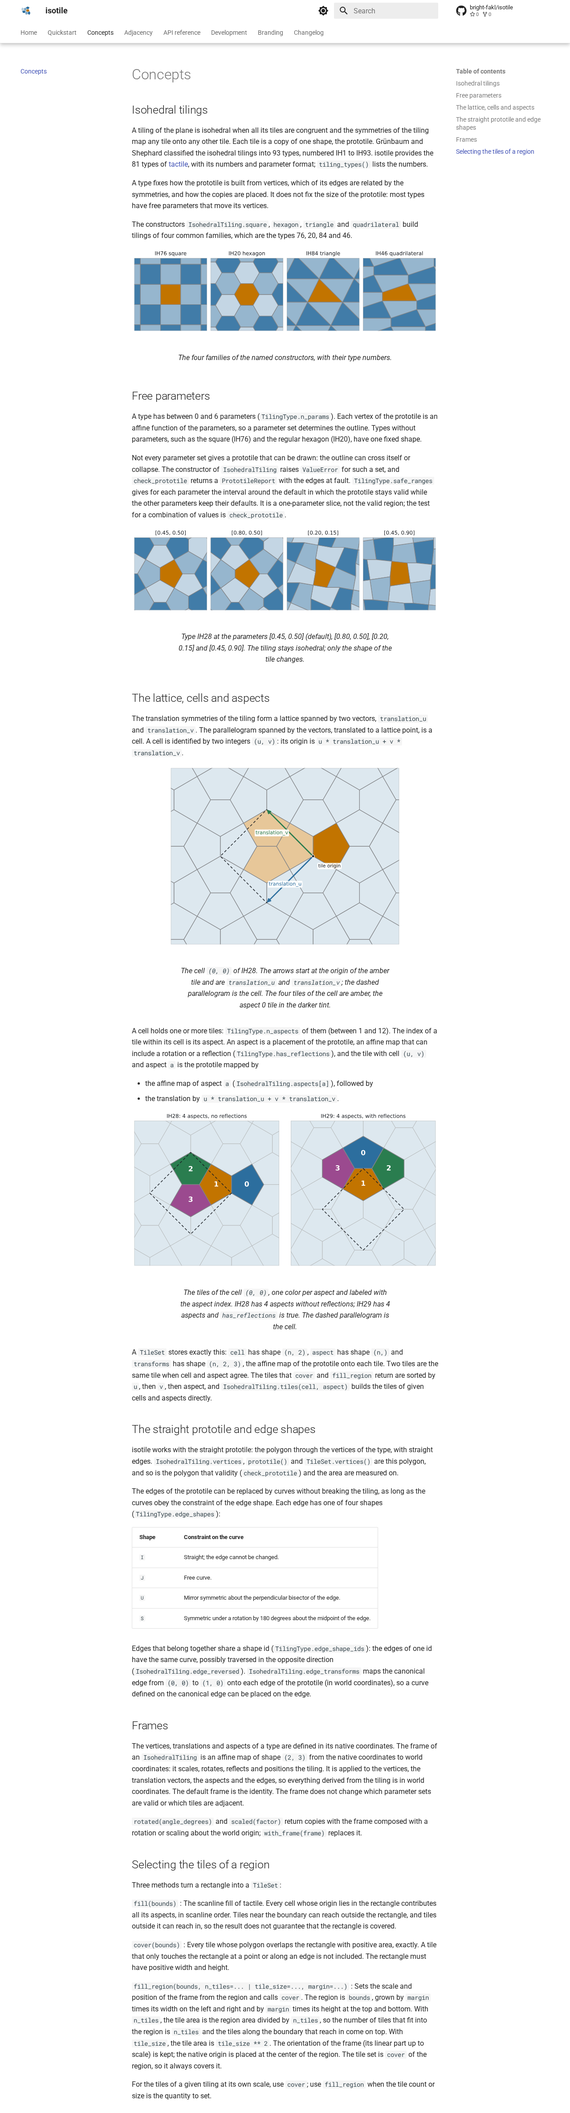
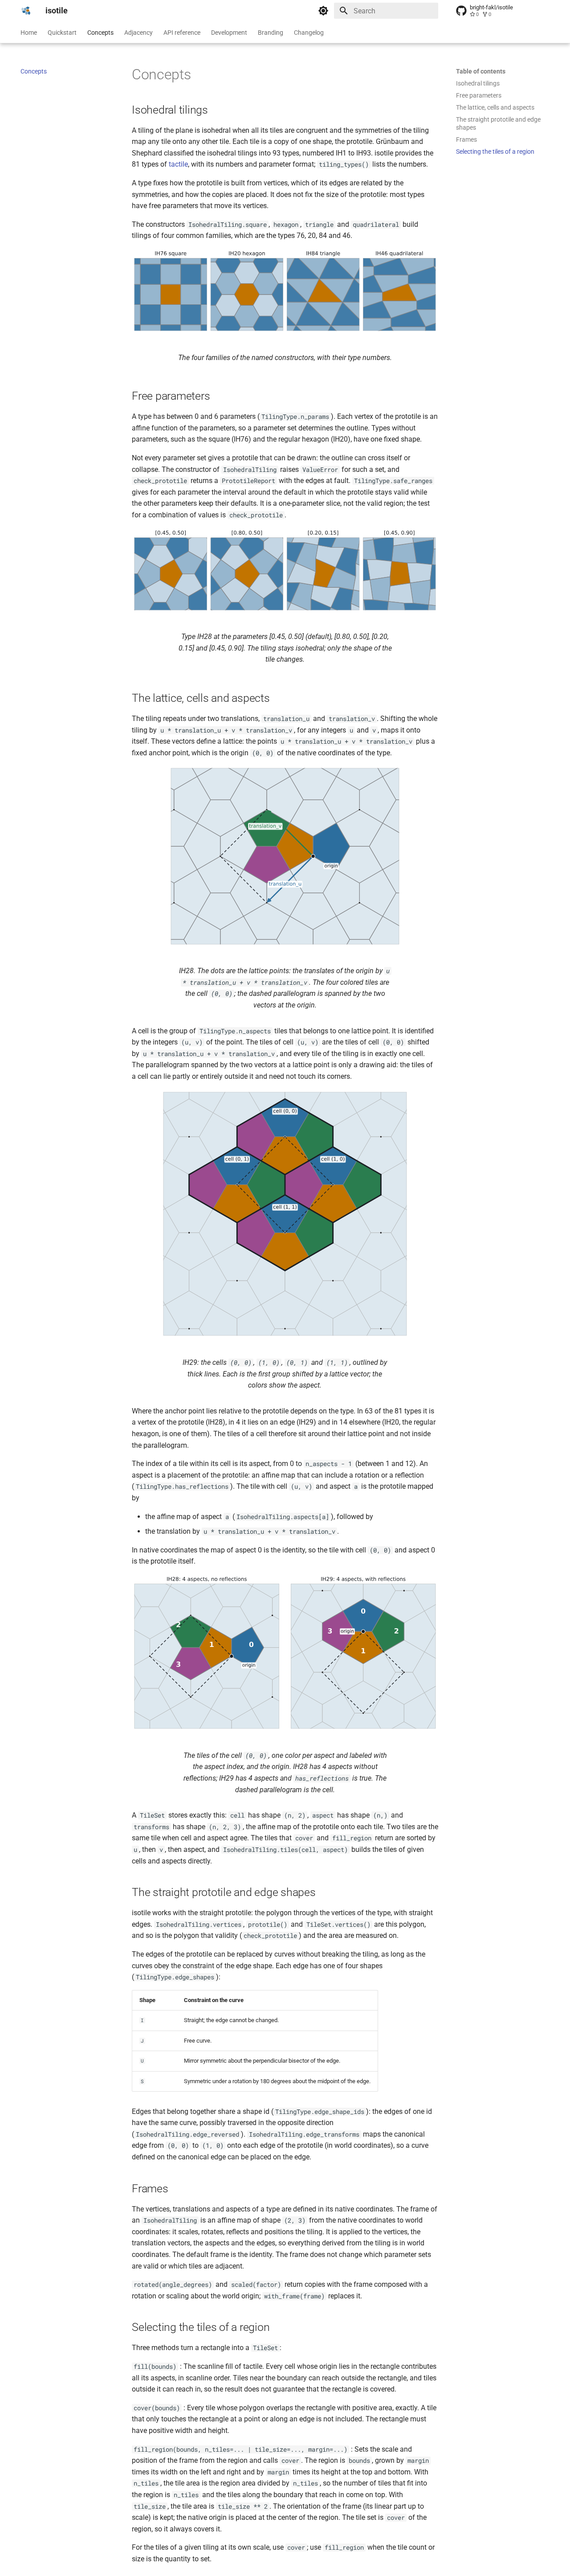
isotile-doc-figures: revised lattice, cells and aspects figures

diff --git a/isotile-doc-figures/index.html b/isotile-doc-figures/index.html
@@ -85,30 +85,31 @@
 <dt>Base</dt><dd>main</dd>
 <dt>Created</dt><dd>2026-10-27 21:30</dd>
 <dt>Before</dt><dd>bright-fakl/isotile docs-skeleton at b55a11d (no figures)</dd>
-<dt>After</dt><dd>bright-fakl/isotile docs-skeleton at b3dca45 (figures, not merged)</dd>
+<dt>After</dt><dd>bright-fakl/isotile docs-skeleton at 9ffe3af (figures, not merged)</dd>
 <dt>Inputs</dt><dd>isotile tiles (cover, fill_region, tiles, neighbors, adjacency) and the logo palette; matplotlib 3.10.9 (docs group); mkdocs 1.6.1 with mkdocs-material 9.7.7; headless Chromium (dark scheme shown by setting data-md-color-scheme=&quot;slate&quot; and data-md-color-primary=&quot;black&quot; on a copy of the build)</dd>
 </dl>
-<p class="desc">Thirteen light/dark SVG figures for the home, quickstart, concepts and adjacency pages of the isotile docs, generated by scripts/make_doc_figures.py from isotile tiles, polygons and adjacency, on the docs-skeleton branch of PR 2. CI is green.</p>
+<p class="desc">Fourteen light/dark SVG figures for the home, quickstart, concepts and adjacency pages of the isotile docs, generated by scripts/make_doc_figures.py from isotile tiles, polygons and adjacency, on the docs-skeleton branch of PR 2. CI is green.</p>
 <h2>What changed</h2>
+<ul><li>Revision (9ffe3af): the Concepts section &quot;The lattice, cells and aspects&quot; is rewritten in the order translations, cell (a group of <code>n_aspects</code> tiles; the parallelogram is a drawing aid, tiles may lie outside it), anchor point (the native origin: a vertex in 63 of the 81 types, on an edge in 4, elsewhere in 14), aspect and tile formula. <code>concepts-lattice</code> and <code>concepts-aspects</code> now show the lattice points as dots, the origin, the colored tiles of cell (0, 0) and the dashed parallelogram between dots; new <code>concepts-cells</code> (IH29) shows four neighboring cells, outlined, as translates of one group.</li></ul>
 <ul><li><code>scripts/make_doc_figures.py</code> writes 26 SVG files (13 figures, <code>-light</code> and <code>-dark</code>) to <code>docs/assets/figures/</code>. It uses plain matplotlib (added to the <code>docs</code> dependency group only, <code>uv.lock</code> updated) and a script-local helper built on <code>cover</code>, tile polygons, <code>neighbors</code> and the type adjacency table; the library gains no plotting code.</li><li>Dark mode: two variants per figure on a transparent background with the logo colors (light <code>#2c6e9e</code>, <code>#c27400</code>; dark <code>#85b7e0</code>, <code>#facc38</code>, plus a green and a plum for aspects and vertex-only neighbors), shown with Material&#x27;s <code>#only-light</code> and <code>#only-dark</code> URL fragments.</li><li>Output is deterministic: text as paths, fixed <code>svg.hashsalt</code>, date, creator, format and type metadata removed, path data rounded to 0.1 pt, collection styles moved to the group. Two runs in separate processes give identical files; <code>--check</code> compares with the stored files.</li><li>Quickstart and adjacency figures run the Python blocks of the page up to the block that creates the object and draw that object, so they show what the code on the page produces.</li><li>Pages: figures with alt text and a caption (<code>md_in_html</code>, <code>&lt;figure&gt;</code> and <code>&lt;figcaption&gt;</code>); short lead-in sentence in Concepts for the named families; a &quot;Regenerate the figures&quot; section in Development; CHANGELOG line.</li><li><code>tests/test_docs_examples.py</code>: every image of a page resolves and has alt text, and every figure file is shown on some page.</li></ul>
 <table>
 <tr><th>Page</th><th>Figures</th></tr>
 <tr><td>index</td><td>hero</td></tr>
 <tr><td>quickstart</td><td>quickstart-create, concepts-families (also in concepts), quickstart-fill, quickstart-select, quickstart-adjacency, quickstart-frames</td></tr>
-<tr><td>concepts</td><td>concepts-families, concepts-parameters, concepts-lattice, concepts-aspects</td></tr>
+<tr><td>concepts</td><td>concepts-families, concepts-parameters, concepts-lattice, concepts-cells, concepts-aspects</td></tr>
 <tr><td>adjacency</td><td>adjacency-neighbors, adjacency-offsets, adjacency-matrix</td></tr>
 </table>
 <p>Not drawn: curved edge shapes (the API only exposes the shape letters I, J, U, S).</p>
 <h2>Checks</h2>
 <table>
 <tr><th>Check</th><th>Result</th></tr>
-<tr><td>Asset size</td><td><code>docs/assets/figures/</code> 0.54 MB (91 KB gzipped, 26 files, largest 30 KB); logo assets 81 KB</td></tr>
+<tr><td>Asset size</td><td><code>docs/assets/figures/</code> 0.58 MB (28 files); logo assets 81 KB</td></tr>
 <tr><td><code>mkdocs build --strict</code></td><td>no warnings</td></tr>
 <tr><td>Screenshots, light and dark</td><td>looked at all four changed pages; no overlapping or clipped labels; light and dark variants swap with the scheme</td></tr>
 <tr><td>pytest</td><td>2,844 passed, 78 skipped</td></tr>
 <tr><td>ruff, ruff format, mypy --strict, <code>uv lock --check</code>, pre-commit</td><td>clean</td></tr>
 <tr><td><code>make_doc_figures.py --check</code></td><td>up to date; two consecutive runs identical</td></tr>
-<tr><td>CI at b3dca45</td><td>all jobs green (lint, typecheck, tests on Linux 3.10 to 3.13, macOS, Windows, tactile-equivalence, data-check, minimum-versions, wheel-smoke-test, check-docs, docs build); deploy skipped on the PR by design</td></tr>
+<tr><td>CI at 9ffe3af</td><td>all jobs green (lint, typecheck, tests on Linux 3.10 to 3.13, macOS, Windows, tactile-equivalence, data-check, minimum-versions, wheel-smoke-test, check-docs, docs build); deploy skipped on the PR by design</td></tr>
 </table>
 <h2>Could not be verified</h2>
 <ul><li>The dark scheme was shown by editing attributes on a copy of the build, not by the theme toggle.</li><li>Text is drawn as paths, so it does not follow the docs font; the figure text is DejaVu Sans.</li></ul>
@@ -124,8 +125,8 @@
 <img src="concepts-dark.png" alt="Concepts, dark scheme.">
 <p class="caption">Concepts, dark scheme.</p>
 </div><div class="figure">
-<img src="concepts-light.png" alt="Concepts, light scheme: named families, free parameters, lattice and translation vectors, aspects of a cell.">
-<p class="caption">Concepts, light scheme: named families, free parameters, lattice and translation vectors, aspects of a cell.</p>
+<img src="concepts-light.png" alt="Concepts, light scheme: named families, free parameters, lattice points and translation vectors (IH28), cells as translates of one group (IH29), aspects and the origin (IH28, IH29).">
+<p class="caption">Concepts, light scheme: named families, free parameters, lattice points and translation vectors (IH28), cells as translates of one group (IH29), aspects and the origin (IH28, IH29).</p>
 </div><div class="figure">
 <img src="index-dark.png" alt="Home page, dark scheme.">
 <p class="caption">Home page, dark scheme.</p>

diff --git a/index.html b/index.html
@@ -79,7 +79,7 @@
 <table id="toc">
 <thead><tr><th data-col="0" title="Sort by Status">Status</th><th data-col="1" title="Sort by Kind">Kind</th><th data-col="2" title="Sort by Topic">Topic</th><th data-col="3" title="Sort by PR">PR</th><th data-col="4" title="Sort by Title">Title</th><th data-col="5" title="Sort by Description">Description</th><th data-col="6" title="Sort by Created">Created</th><th data-col="7" title="Sort by Closed">Closed</th><th data-col="8" title="Sort by Figures">Figures</th></tr></thead>
 <tbody>
-<tr class="todo" data-ord="0" data-kind="pr" data-topics=" symbol " data-status="unknown" data-class="todo" data-active="2026-10-27 21:30"><td><span class="status todo">unknown</span></td><td>pr</td><td>symbol</td><td><a href="https://github.com/bright-fakl/isotile/pull/2">#2</a></td><td><a href="isotile-doc-figures/index.html">&quot;isotile documentation figures&quot;</a></td><td>Thirteen light/dark SVG figures for the home, quickstart, concepts and adjacency pages of the isotile docs, generated by scripts/make_doc_figures.py from isotile tiles, polygons and adjacency, on the docs-skeleton branch of PR 2. CI is green.</td><td>2026-10-27 21:30</td><td></td><td>8</td></tr>
+<tr class="todo" data-ord="0" data-kind="pr" data-topics=" symbol " data-status="unknown" data-class="todo" data-active="2026-10-27 21:30"><td><span class="status todo">unknown</span></td><td>pr</td><td>symbol</td><td><a href="https://github.com/bright-fakl/isotile/pull/2">#2</a></td><td><a href="isotile-doc-figures/index.html">&quot;isotile documentation figures&quot;</a></td><td>Fourteen light/dark SVG figures for the home, quickstart, concepts and adjacency pages of the isotile docs, generated by scripts/make_doc_figures.py from isotile tiles, polygons and adjacency, on the docs-skeleton branch of PR 2. CI is green.</td><td>2026-10-27 21:30</td><td></td><td>8</td></tr>
 <tr class="todo" data-ord="1" data-kind="pr" data-topics=" symbol " data-status="unknown" data-class="todo" data-active="2026-10-27 20:00"><td><span class="status todo">unknown</span></td><td>pr</td><td>symbol</td><td><a href="https://github.com/bright-fakl/isotile/pull/2">#2</a></td><td><a href="isotile-logo-assets/index.html">&quot;isotile logo assets and branding page&quot;</a></td><td>Final logo asset set for isotile (the pentagon patch a_patch with the pinwheel favicon a_patch_fav) generated by scripts/make_logo_assets.py, wired into the docs (header logo per color scheme, favicon, Branding page) and the README header on the docs-skeleton branch of PR 2. One logo shows in the header in each scheme; CI is green.</td><td>2026-10-27 20:00</td><td></td><td>8</td></tr>
 <tr class="todo" data-ord="2" data-kind="pr" data-topics=" symbol " data-status="unknown" data-class="todo" data-active="2026-10-27 18:00"><td><span class="status todo">unknown</span></td><td>pr</td><td>symbol</td><td><a href="https://github.com/bright-fakl/isotile/pull/2">#2</a></td><td><a href="isotile-docs-skeleton-pr/index.html">&quot;isotile docs skeleton and GitHub Pages deployment&quot;</a></td><td>Adds the mkdocs-material documentation site (home, quickstart, concepts, adjacency, API reference from docstrings, development, changelog), tests that run the page code and check that the API reference lists every public name, a strict docs build job in CI and a Pages deployment workflow for main.</td><td>2026-10-27 18:00</td><td></td><td>10</td></tr>
 <tr class="todo" data-ord="3" data-kind="exploration" data-topics=" symbol " data-status="open" data-class="todo" data-active="2026-10-27 15:00"><td><span class="status todo">open</span></td><td>exploration</td><td>symbol</td><td>-</td><td><a href="exploration-isotile-logo/index.html">Logo concepts for isotile</a></td><td>Five mark concepts for isotile (a pentagon tiling patch, interlocking curved tiles, a lattice cell, an `it` monogram of hexagon tiles, one tile with its neighbor links), drawn in the carto-flow palette from real isotile geometry and shown at 128, 64, 32 and 16 px on the light and dark surfaces and in one color. At 16 px only the simplified favicon variants of the neighbor-links and lattice-cell marks keep a clear amber shape; the tile patches become a cluster of specks with one amber speck, and the monogram does not hold. The recommendation is the pentagon patch (a_patch, with the four-tile favicon variant a_patch_fav), ahead of the interlocking tiles. A second round replaced the random curves of the interlocking tiles by designed ones (jigsaw tabs, a trefoil of U edges, a single-lobe J flow); the trefoil patch (b3_trefoil) is now level with or slightly ahead of the pentagon patch, and both are generic at 16 px.</td><td>2026-10-27 15:00</td><td></td><td>6</td></tr>

diff --git a/isotile-doc-figures/summary.md b/isotile-doc-figures/summary.md
@@ -2,7 +2,7 @@
 pr: 2
 url: https://github.com/bright-fakl/isotile/pull/2
 title: "isotile documentation figures"
-description: Thirteen light/dark SVG figures for the home, quickstart, concepts and adjacency pages of the isotile docs, generated by scripts/make_doc_figures.py from isotile tiles, polygons and adjacency, on the docs-skeleton branch of PR 2. CI is green.
+description: Fourteen light/dark SVG figures for the home, quickstart, concepts and adjacency pages of the isotile docs, generated by scripts/make_doc_figures.py from isotile tiles, polygons and adjacency, on the docs-skeleton branch of PR 2. CI is green.
 kind: pr
 topic: symbol
 base: main
@@ -10,7 +10,7 @@ branch: docs-skeleton
 related: isotile-logo-assets, isotile-docs-skeleton-pr
 date: 2026-10-27 21:30
 before: bright-fakl/isotile docs-skeleton at b55a11d (no figures)
-after: bright-fakl/isotile docs-skeleton at b3dca45 (figures, not merged)
+after: bright-fakl/isotile docs-skeleton at 9ffe3af (figures, not merged)
 inputs: isotile tiles (cover, fill_region, tiles, neighbors, adjacency) and the logo palette; matplotlib 3.10.9 (docs group); mkdocs 1.6.1 with mkdocs-material 9.7.7; headless Chromium (dark scheme shown by setting data-md-color-scheme="slate" and data-md-color-primary="black" on a copy of the build)
 ---
 
@@ -18,12 +18,14 @@ figure: index-light.png — Home page, light scheme, with the hero figure (IH28,
 figure: index-dark.png — Home page, dark scheme.
 figure: quickstart-light.png — Quickstart, light scheme: six figures after the code blocks (IH7 default and custom, named families, `fill_region`, `select`, adjacency, rotated frame).
 figure: quickstart-dark.png — Quickstart, dark scheme.
-figure: concepts-light.png — Concepts, light scheme: named families, free parameters, lattice and translation vectors, aspects of a cell.
+figure: concepts-light.png — Concepts, light scheme: named families, free parameters, lattice points and translation vectors (IH28), cells as translates of one group (IH29), aspects and the origin (IH28, IH29).
 figure: concepts-dark.png — Concepts, dark scheme.
 figure: adjacency-light.png — Adjacency, light scheme: neighbor kinds, lattice offsets and neighbor aspect, matrix of the worked example.
 figure: adjacency-dark.png — Adjacency, dark scheme.
 
 ## What changed
+
+- Revision (9ffe3af): the Concepts section "The lattice, cells and aspects" is rewritten in the order translations, cell (a group of `n_aspects` tiles; the parallelogram is a drawing aid, tiles may lie outside it), anchor point (the native origin: a vertex in 63 of the 81 types, on an edge in 4, elsewhere in 14), aspect and tile formula. `concepts-lattice` and `concepts-aspects` now show the lattice points as dots, the origin, the colored tiles of cell (0, 0) and the dashed parallelogram between dots; new `concepts-cells` (IH29) shows four neighboring cells, outlined, as translates of one group.
 
 - `scripts/make_doc_figures.py` writes 26 SVG files (13 figures, `-light` and `-dark`) to `docs/assets/figures/`. It uses plain matplotlib (added to the `docs` dependency group only, `uv.lock` updated) and a script-local helper built on `cover`, tile polygons, `neighbors` and the type adjacency table; the library gains no plotting code.
 - Dark mode: two variants per figure on a transparent background with the logo colors (light `#2c6e9e`, `#c27400`; dark `#85b7e0`, `#facc38`, plus a green and a plum for aspects and vertex-only neighbors), shown with Material's `#only-light` and `#only-dark` URL fragments.
@@ -36,7 +38,7 @@ figure: adjacency-dark.png — Adjacency, dark scheme.
 |---|---|
 | index | hero |
 | quickstart | quickstart-create, concepts-families (also in concepts), quickstart-fill, quickstart-select, quickstart-adjacency, quickstart-frames |
-| concepts | concepts-families, concepts-parameters, concepts-lattice, concepts-aspects |
+| concepts | concepts-families, concepts-parameters, concepts-lattice, concepts-cells, concepts-aspects |
 | adjacency | adjacency-neighbors, adjacency-offsets, adjacency-matrix |
 
 Not drawn: curved edge shapes (the API only exposes the shape letters I, J, U, S).
@@ -45,13 +47,13 @@ Not drawn: curved edge shapes (the API only exposes the shape letters I, J, U, S
 
 | Check | Result |
 |---|---|
-| Asset size | `docs/assets/figures/` 0.54 MB (91 KB gzipped, 26 files, largest 30 KB); logo assets 81 KB |
+| Asset size | `docs/assets/figures/` 0.58 MB (28 files); logo assets 81 KB |
 | `mkdocs build --strict` | no warnings |
 | Screenshots, light and dark | looked at all four changed pages; no overlapping or clipped labels; light and dark variants swap with the scheme |
 | pytest | 2,844 passed, 78 skipped |
 | ruff, ruff format, mypy --strict, `uv lock --check`, pre-commit | clean |
 | `make_doc_figures.py --check` | up to date; two consecutive runs identical |
-| CI at b3dca45 | all jobs green (lint, typecheck, tests on Linux 3.10 to 3.13, macOS, Windows, tactile-equivalence, data-check, minimum-versions, wheel-smoke-test, check-docs, docs build); deploy skipped on the PR by design |
+| CI at 9ffe3af | all jobs green (lint, typecheck, tests on Linux 3.10 to 3.13, macOS, Windows, tactile-equivalence, data-check, minimum-versions, wheel-smoke-test, check-docs, docs build); deploy skipped on the PR by design |
 
 ## Could not be verified
 
